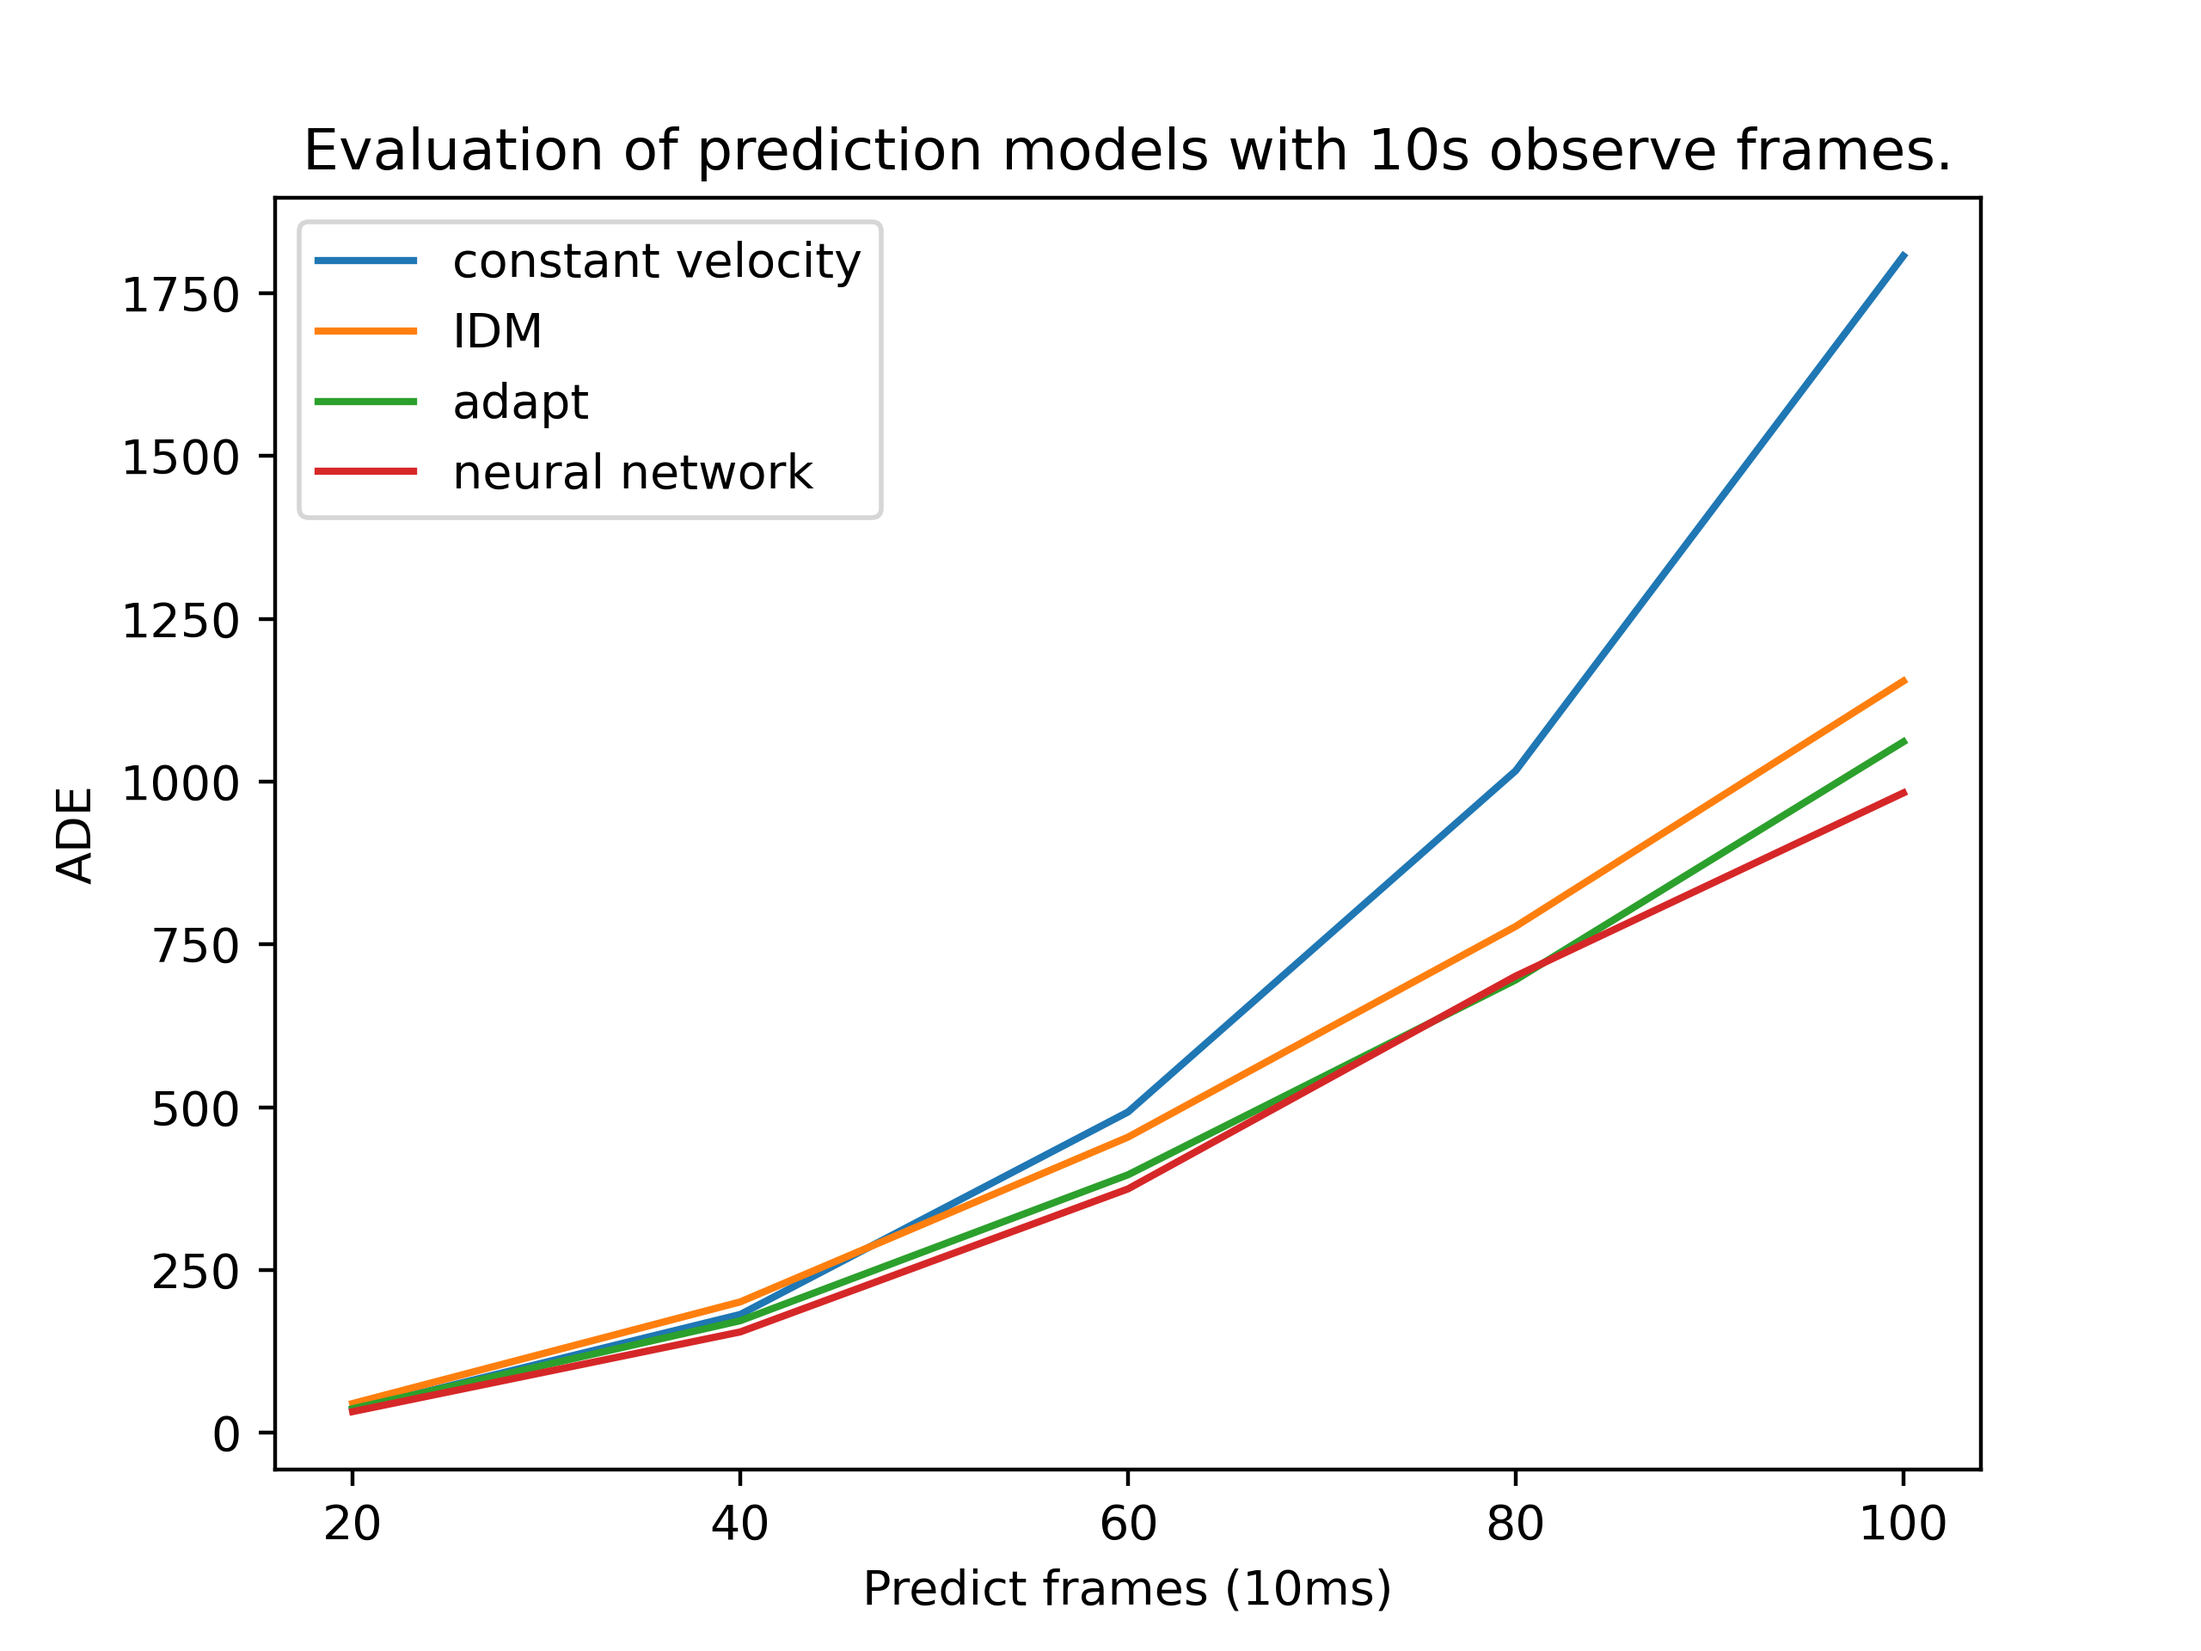
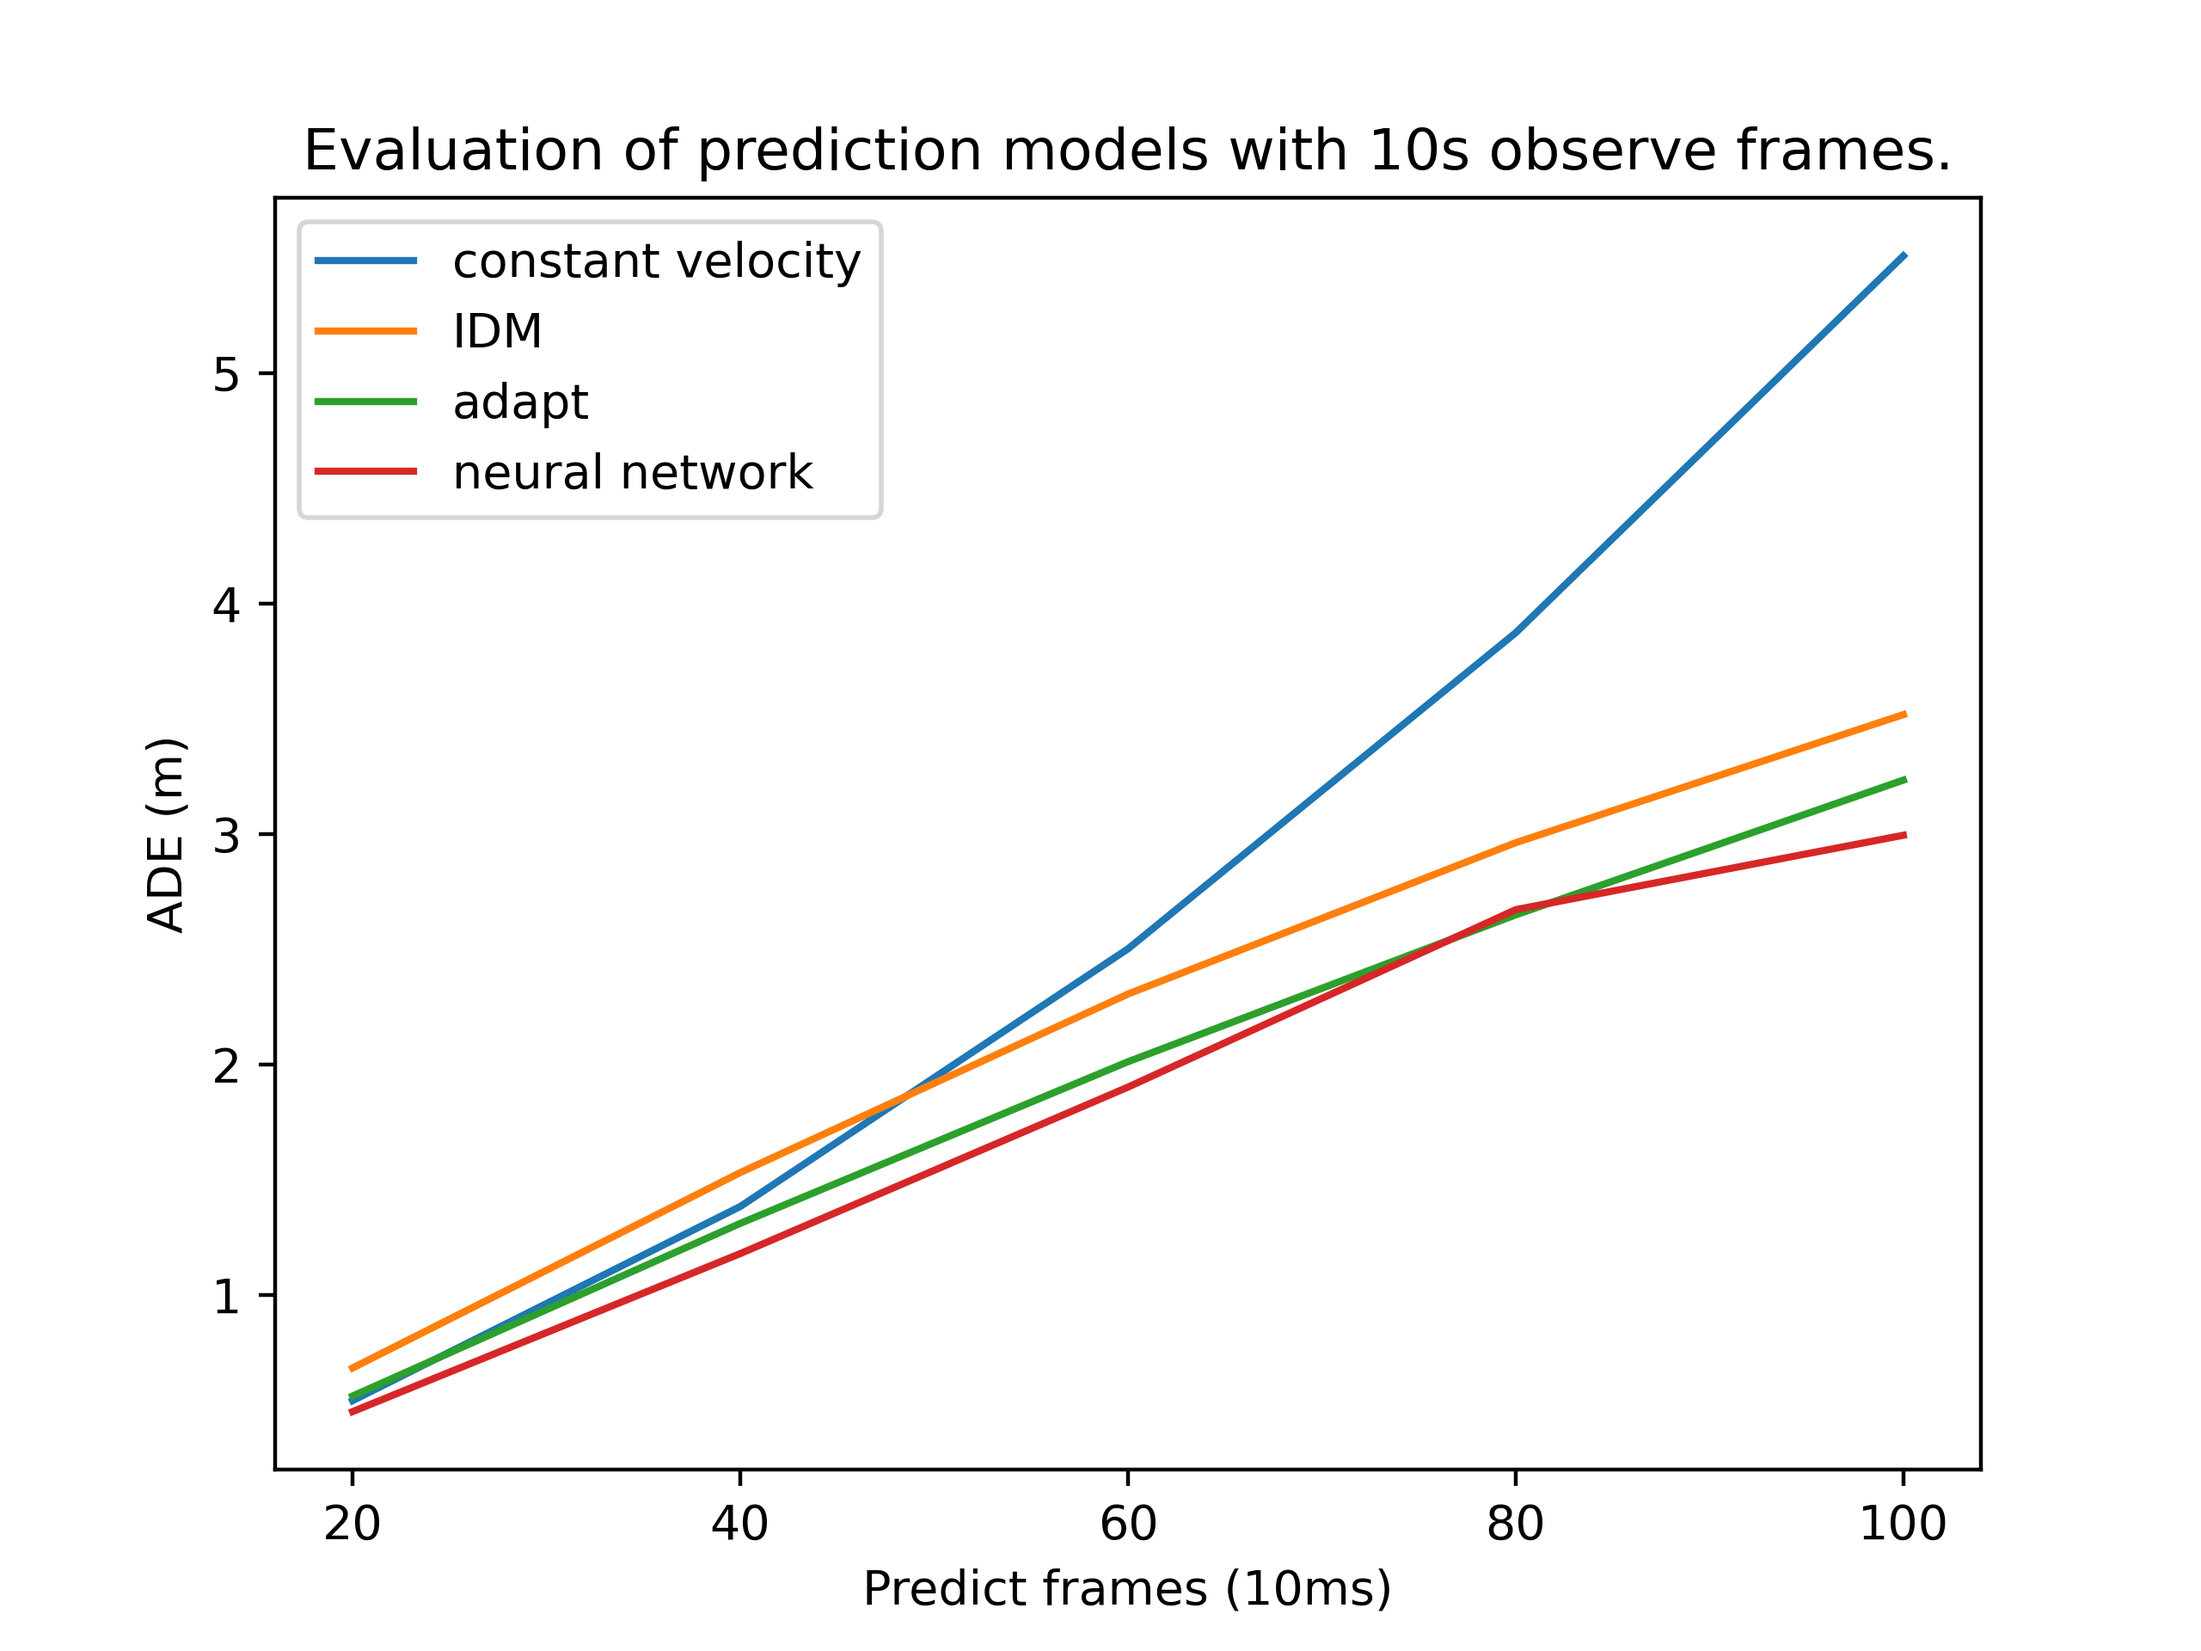
add experiment results

diff --git a/pretraj/experiment.py b/pretraj/experiment.py
@@ -58,8 +58,10 @@ def experiment(
       hard_braking, (ds_record, _, _) = predict.predict(ego, pre, observe_frames, predict_frames, model)
       if model not in result:
         result[model] = {'ADE':0, 'FDE':0, 'hard_braking':0}
-      result[model]['ADE'] += ADE(np.array(ds_record), np.array(groundtruth_record)) / number_vehicles
-      result[model]['FDE'] += FDE(np.array(ds_record), np.array(groundtruth_record)) / number_vehicles
+      result[model]['ADE'] += \
+          ADE(np.array(ds_record), np.array(groundtruth_record)) / number_vehicles / 3.2808399
+      result[model]['FDE'] += \
+          FDE(np.array(ds_record), np.array(groundtruth_record)) / number_vehicles / 3.2808399
       result[model]['hard_braking'] += hard_braking
     
   return result
@@ -94,7 +96,7 @@ def experiment_fixed_observe(draw_only=False):
 
   plt.xticks(predict_frames_list)
   plt.xlabel('Predict frames (10ms)')
-  plt.ylabel('ADE')
+  plt.ylabel('ADE (m)')
   plt.legend()
   plt.title('Evaluation of prediction models with 10s observe frames.')
   plt.savefig(FIXED_OBSERVE_FIG_PATH, dpi=400)
@@ -131,7 +133,7 @@ def experiment_fixed_predict(draw_only=False):
 
   plt.xticks(observe_frames_list)
   plt.xlabel('Observe frames (10ms)')
-  plt.ylabel('ADE')
+  plt.ylabel('ADE (m)')
   plt.legend()
   plt.title('Evaluation of prediction models with 5s predict frames.')
   plt.savefig(FIXED_PREDICT_FIG_PATH, dpi=400)
@@ -153,6 +155,6 @@ def experiment_runtime():
 
 if __name__ == '__main__':
   warm_up()
-  experiment_fixed_observe(draw_only=True)
-  experiment_fixed_predict(draw_only=True)
+  experiment_fixed_observe(draw_only=False)
+  experiment_fixed_predict(draw_only=False)
   experiment_runtime()

diff --git a/pretraj/predict.py b/pretraj/predict.py
@@ -167,11 +167,6 @@ def nn_model(
     tensor = torch.FloatTensor([[ego_state.ds, ego_state.v, pre_state.v]]).to(device)
     return model(tensor)[0][0].detach().cpu().numpy()
 
-  # TODO: test
-  # tensor = torch.FloatTensor([[78.97, 25.42, 34.91]]).to(device)
-  # print(model(tensor)[0][0].detach().cpu().numpy())
-  # print(np.hstack([X, Y.numpy()]))
-
   return control_law
 
 

diff --git a/pretraj/merics.py b/pretraj/merics.py
@@ -4,14 +4,14 @@ import numpy as np
 def ADE(
     traj_1: np.ndarray, 
     traj_2: np.ndarray
-):
-  return np.sum(np.abs((traj_1 - traj_2)))
+) -> float:
+  return np.average(np.abs((traj_1 - traj_2)))
 
 
 def FDE(
     traj_1: np.ndarray, 
     traj_2: np.ndarray
-): 
+) -> float: 
   return np.abs(traj_1[-1] - traj_2[-1])
 
 
